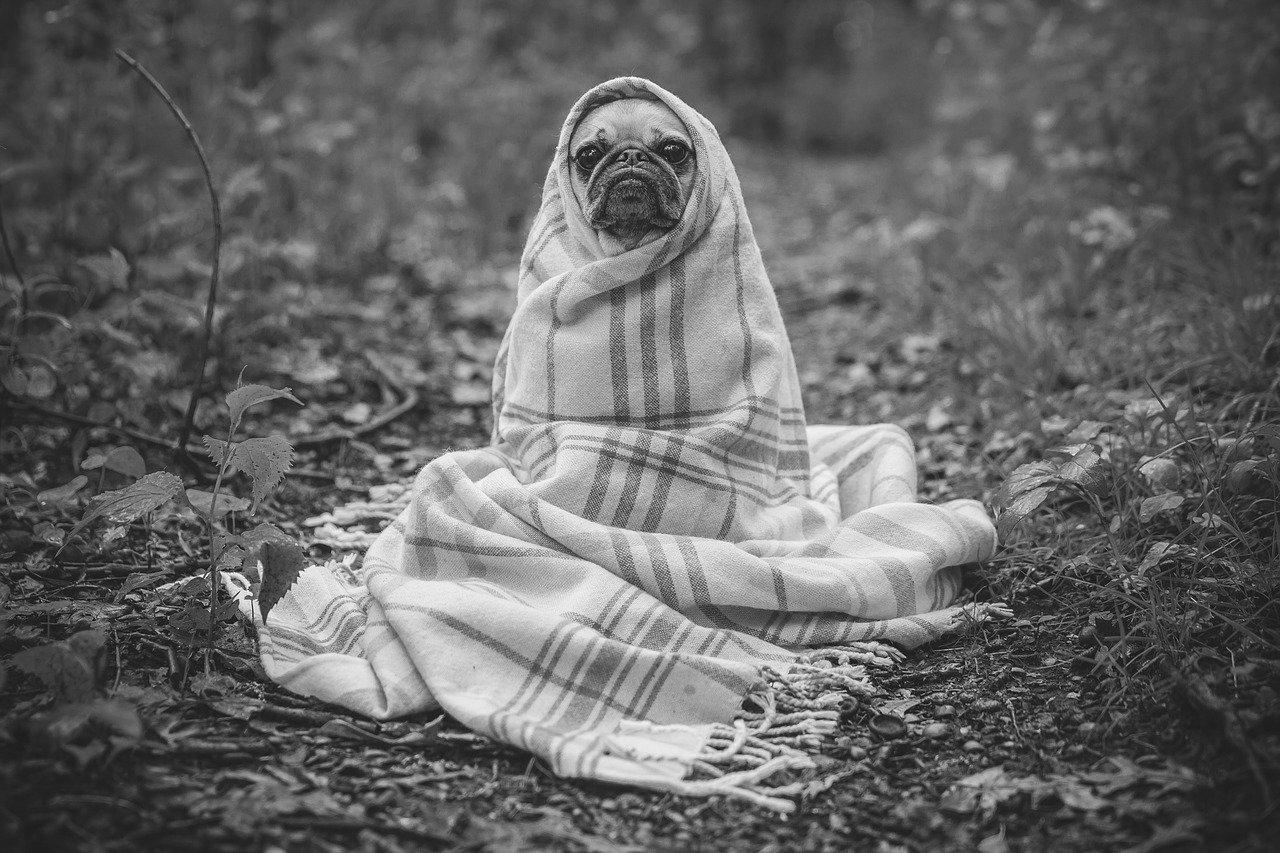
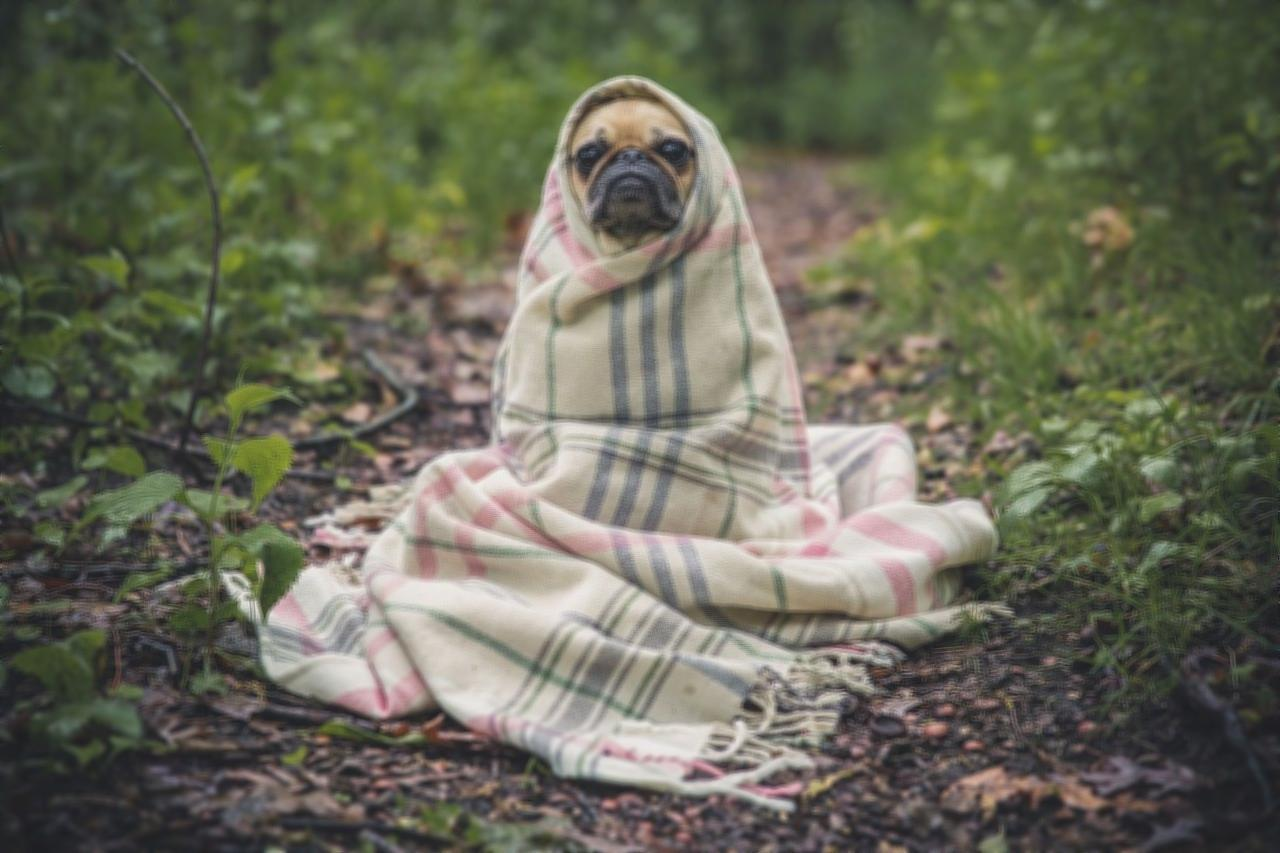
5

diff --git a/imageeditor/main.py b/imageeditor/main.py
@@ -93,6 +93,30 @@ class ImageProcessor():
         image_path = path.join(workdir, self.save_dir, self.filename)
         self.showImage(image_path)
 
+    def rotate_left(self):
+        self.image = self.image.transpose(Image.ROTATE_90)
+        self.saveImage()
+        image_path = path.join(workdir, self.save_dir, self.filename)
+        self.showImage(image_path)
+    
+    def rotate_right(self):
+        self.image = self.image.transpose(Image.ROTATE_270)
+        self.saveImage()
+        image_path = path.join(workdir, self.save_dir, self.filename)
+        self.showImage(image_path)
+
+    def do_mirror(self):
+        self.image = self.image.transpose(Image.FLIP_LEFT_RIGHT)
+        self.saveImage()
+        image_path = path.join(workdir, self.save_dir, self.filename)
+        self.showImage(image_path)
+    
+    def do_sharpness(self):
+        self.image = self.image.filter(ImageFilter.BLUR)
+        self.saveImage()
+        image_path = path.join(workdir, self.save_dir, self.filename)
+        self.showImage(image_path)
+
 workimage = ImageProcessor()
 
 def showChosenImage():
@@ -102,6 +126,10 @@ def showChosenImage():
         workimage.showImage(path.join(workdir, filename))
 
 
+btn_sharpness.clicked.connect(workimage.do_sharpness)
+btn_mirror.clicked.connect(workimage.do_mirror)
+btn_right.clicked.connect(workimage.rotate_right)
+btn_left.clicked.connect(workimage.rotate_left)
 btn_black_white.clicked.connect(workimage.do_bw)
 file_list.itemClicked.connect(showChosenImage)
 btn_open_folder.clicked.connect(showFilenamesList)
